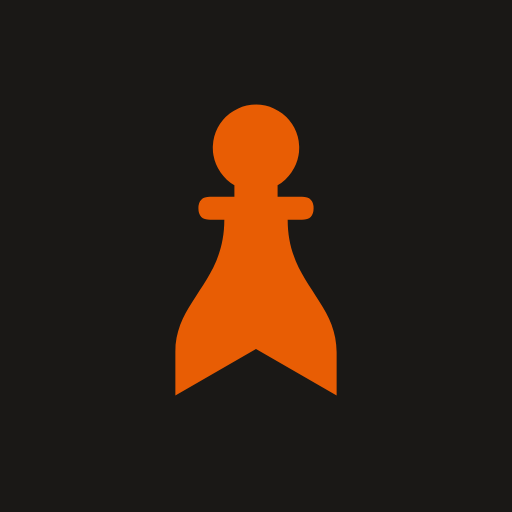
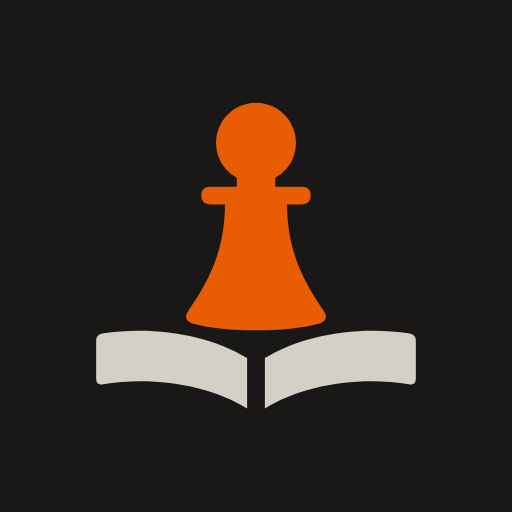
feat(brand): switch the mark to the pawn on an open book
The ribbon pawn read as a person, and a lone pawn sits too close to
chess.com's mark. This keeps the original pawn-on-a-book idea and
redraws it flat: a Staunton pawn seated in an open book, its base one
shallow arc that follows the page curve.

- two colours: brand-orange pawn, board-cream pages
- SVG favicon darkens the pages under a light colour scheme so they
  hold on a light tab; the ICO uses a mid-grey that works on both
- icons, og:image tile, TopBar mark, design-system masters, preview
  card, UI kit and README logo rules regenerated for the new mark

Claude-Session: https://claude.ai/code/session_017KoPbEBPVo7fvhDh6a5VRF

diff --git a/design-system/project/preview/brand-logo.html b/design-system/project/preview/brand-logo.html
@@ -1,7 +1,7 @@
 <!doctype html><html><head><meta charset="utf-8"><link rel="stylesheet" href="../colors_and_type.css"><style>
 body{padding:24px;background:var(--surface-base);display:flex;align-items:center;gap:24px;flex-wrap:wrap}
 .lockup{display:flex;align-items:center;gap:8px;padding:18px 22px;background:var(--surface-elevated);border:1px solid var(--border-subtle);border-radius:12px}
-.lockup img{height:22px}
+.lockup img{height:28px;margin:-2px 0}
 .name{font:600 16px/1 var(--font-family-primary);color:var(--color-text-primary);letter-spacing:-.01em}
 .panel{padding:14px;border-radius:12px;border:1px solid var(--border-subtle);background:var(--surface-raised)}
 .panel img{display:block;width:96px;height:96px}
@@ -10,9 +10,9 @@ body{padding:24px;background:var(--surface-base);display:flex;align-items:center
 .tile img{border-radius:22px}
 .cap{font-family:var(--font-family-mono);font-size:11px;color:var(--color-text-muted);margin-top:6px}
 </style></head><body>
-<div><div class="lockup"><img src="../assets/logo-favicon.svg" alt=""><span class="name">Opening Book</span></div><div class="cap">TopBar lockup</div></div>
+<div><div class="lockup"><img src="../assets/logo-mark.svg" alt=""><span class="name">Opening Book</span></div><div class="cap">TopBar lockup</div></div>
 <div><div class="panel"><img src="../assets/logo-mark.svg" alt=""></div><div class="cap">logo-mark</div></div>
 <div><div class="panel light"><img src="../assets/logo-mark-black.svg" alt=""></div><div class="cap">one colour</div></div>
 <div><div class="panel tile"><img src="../assets/logo-tile.svg" alt=""></div><div class="cap">logo-tile</div></div>
-<div><div class="panel sizes"><img src="../assets/logo-favicon.svg" style="width:32px;height:32px" alt=""><img src="../assets/logo-favicon.svg" style="width:16px;height:16px" alt=""></div><div class="cap">favicon 32 / 16</div></div>
+<div><div class="panel sizes" style="background:#dfe1e5"><img src="../assets/logo-favicon.svg" style="width:32px;height:32px" alt=""><img src="../assets/logo-favicon.svg" style="width:16px;height:16px" alt=""></div><div class="cap">favicon 32 / 16 — pages follow the OS colour scheme</div></div>
 </body></html>

diff --git a/packages/web/src/components/layout/TopBar.tsx b/packages/web/src/components/layout/TopBar.tsx
@@ -28,8 +28,17 @@ export default function TopBar() {
   return (
     <header className={styles.topBar}>
       <Link to="/" className={styles.logo}>
-        <svg className={styles.logoMark} viewBox="72 26 112 202" aria-hidden="true">
-          <path d="M 143 82 L 143 90 L 160 90 Q 168 90 168 98 Q 168 106 160 106 L 150 106 C 150 150 184 162 184 198 L 184 228 L 128 195.67 L 72 228 L 72 198 C 72 162 106 150 106 106 L 96 106 Q 88 106 88 98 Q 88 90 96 90 L 113 90 L 113 82 A 30 30 0 1 1 143 82 Z" />
+        <svg className={styles.logoMark} viewBox="20 12 216 216" aria-hidden="true">
+          <g transform="translate(0 -12)">
+            <path
+              className={styles.logoPawn}
+              d="M 141 84.16 A 27 27 0 1 0 115 84.16 L 115 90.16 L 97 90.16 Q 91 90.16 91 96.16 Q 91 102.16 97 102.16 L 107.00 102.16 C 107.00 134.56 94.85 155.62 82.21 174.09 Q 78.00 180.16 85.55 182.70 C 108.05 188.71 147.95 188.71 170.45 182.70 Q 178.00 180.16 173.79 174.09 C 161.15 155.62 149.00 134.56 149.00 102.16 L 159 102.16 Q 165 102.16 165 96.16 Q 165 90.16 159 90.16 L 141 90.16 Z"
+            />
+            <path
+              className={styles.logoPages}
+              d="M 122 206 C 96 190 58 184 24 189.40 Q 20 190.4 20 194 L 20 220 Q 20 224.4 24 223.80 C 58 218 96 224 122 240 Z M 134.00 206 C 160.00 190 198.00 184 232.00 189.40 Q 236.00 190.4 236.00 194 L 236.00 220 Q 236.00 224.4 232.00 223.80 C 198.00 218 160.00 224 134.00 240 Z"
+            />
+          </g>
         </svg>
         Opening Book
       </Link>

diff --git a/design-system/project/ui_kits/web/index.html b/design-system/project/ui_kits/web/index.html
@@ -8,7 +8,7 @@ body{margin:0;background:var(--surface-base);color:var(--color-text-primary);fon
 /* TopBar */
 .topbar{position:sticky;top:0;height:60px;background:#2c2a27;border-bottom:1px solid rgba(255,255,255,.06);display:grid;grid-template-columns:1fr auto 1fr;align-items:center;padding:0 24px;gap:16px;z-index:100}
 .logo{justify-self:start;color:#ece8e1;text-decoration:none;font-size:16px;font-weight:600;letter-spacing:-.01em;display:flex;align-items:center;gap:10px}
-.logo img{width:22px;height:22px}
+.logo img{width:28px;height:28px;margin:-2px 0}
 .nav{display:flex;justify-self:center;gap:0;height:100%;align-items:stretch}
 .nav a{display:flex;align-items:center;padding:0 16px;color:#9a958e;text-decoration:none;font-size:16px;font-weight:500;box-shadow:inset 0 -2px 0 transparent;cursor:pointer;transition:all .15s ease}
 .nav a:hover{color:#ece8e1}

diff --git a/packages/web/src/components/layout/TopBar.module.css b/packages/web/src/components/layout/TopBar.module.css
@@ -27,12 +27,20 @@
   border-radius: var(--radius-sm);
 }
 
-/* The ribbon pawn: the brand mark (design-system/project/assets/logo-mark.svg) */
+/* The brand mark (design-system/project/assets/logo-mark.svg) */
 .logoMark {
-  height: 22px;
+  height: 24px;
   width: auto;
-  fill: var(--color-brand-orange);
   flex-shrink: 0;
+}
+
+.logoPawn {
+  fill: var(--color-brand-orange);
+}
+
+/* Board cream — the light-square colour the boards use */
+.logoPages {
+  fill: var(--color-result-white);
 }
 
 .logo:focus-visible {

diff --git a/design-system/project/ui_kits/web/TopBar.jsx b/design-system/project/ui_kits/web/TopBar.jsx
@@ -9,7 +9,7 @@ function TopBar({ active, onNav, query, onQuery, onSurprise }) {
           onNav('explore');
         }}
       >
-        <img src="../../assets/logo-favicon.svg" alt="" />
+        <img src="../../assets/logo-mark.svg" alt="" />
         Opening Book
       </a>
       <nav className="nav">

diff --git a/design-system/project/README.md b/design-system/project/README.md
@@ -202,7 +202,7 @@ A defined elevation system — never hardcode `box-shadow`:
 - Landing-variant search input has a near-invisible orange wash:
   `linear-gradient(145deg, var(--accent-a6) 0%, transparent 100%)`.
 - No images, patterns, textures, or full-bleed photography. The single brand
-  image is the ribbon-pawn logo (`assets/logo-mark.svg`).
+  image is the pawn-on-a-book logo (`assets/logo-mark.svg`).
 
 ### Cards
 
@@ -264,22 +264,25 @@ that needs it.
 **Filled vs stroke:** stroke is the default; filled is reserved for state-on
 (e.g. `StarButton` filled = saved to repertoire, in brand orange).
 
-**Logo:** the ribbon pawn — a flat pawn whose base ends in the V-notched tail of
-a bookmark ribbon, so the book is implied rather than drawn. It is the system's
-"orange is a bookmark ribbon" rule made into a mark. One colour, one path, on a
-256 grid (notch at 30°). Masters in `assets/`:
+**Logo:** an orange Staunton pawn seated in an open book, the original
+pawn-on-a-book idea redrawn flat. The pawn's base is a shallow arc that follows
+the curve of the pages, so it sits in the book rather than floating above it.
+Two colours: brand-orange pawn, board-cream (`#d4cfc7`) pages. Two paths on a
+256 grid. Masters in `assets/`:
 
-- `logo-mark.svg` (brand orange), `logo-mark-black.svg`, `logo-mark-white.svg`
-- `logo-favicon.svg` — tight square crop for 16–48px
+- `logo-mark.svg` (colour), `logo-mark-black.svg`, `logo-mark-white.svg`
+- `logo-favicon.svg` — tight square crop; the pages switch to board-dark
+  `#665e54` under `prefers-color-scheme: light` so they hold on a light tab
 - `logo-tile.svg` — mark on `--surface-base`, for app icons and the social image
 
-In production: `favicon.ico` (16/32/48) and `public/brand/` (SVG favicon,
-apple-touch-icon, 192/512 icons, webmanifest; `icon-512.png` is `og:image`). The
-TopBar draws the mark inline at 22px high, 8px from the wordmark. Minimum size
-16px high. Only ever orange, black or white — never cream, never on orange. The
-concepts it was chosen from are in `explorations/logo-refresh/`.
-`opening-book-icon.png` is the retired illustration, kept only so old cached
-social previews still resolve.
+In production: `favicon.ico` (16/32/48, mid-grey pages because an ICO cannot
+adapt) and `public/brand/` (SVG favicon, apple-touch-icon, 192/512 icons,
+webmanifest; `icon-512.png` is `og:image`). The TopBar draws the mark inline at
+24px high, 8px from the wordmark. Minimum size 16px. In one colour both parts
+take the same colour and the gap separates them. The pawn is only ever orange,
+black or white. The explorations it was chosen from are in
+`explorations/logo-refresh/`. `opening-book-icon.png` is the retired
+illustration, kept only so old cached social previews still resolve.
 
 **Emoji / unicode glyphs:** none. Use SVG or text. The one allowed glyph is `★`
 inside the `StarButton`, but even that is rendered via SVG in the source.

diff --git a/design-system/project/explorations/logo-refresh/README.md b/design-system/project/explorations/logo-refresh/README.md
@@ -7,9 +7,10 @@ for the book. They sit on a 256 × 256 canvas as flat SVG paths, with no text,
 rasters, gradients or filters. `concepts.png` compares them with the current
 mark at 200/64/32/16px, in a browser tab and in the TopBar.
 
-- **A: Ribbon pawn** (recommended). The pawn's base is a bookmark tail with a
-  V-notch, taken from the system rule that "orange is a bookmark ribbon". One
-  colour, one shape.
+- **A: Ribbon pawn** (rejected — reads as a person, and a lone pawn is
+  chess.com's mark). The pawn's base is a bookmark tail with a V-notch, taken
+  from the system rule that "orange is a bookmark ribbon". One colour, one
+  shape.
 - **B: Pawn on the page.** Today's idea redrawn flat: the closest evolution of
   the current mark.
 - **C: Pawn in the book.** An open book with the pawn set into it. The best app

diff --git a/.claude/skills/openingbook-design/SKILL.md b/.claude/skills/openingbook-design/SKILL.md
@@ -28,8 +28,8 @@ inventing a layout.
   live landing app (TopBar, Hero, OpeningCard, RepertoireRow, MiniBoard).
 - `design-system/project/preview/*.html` — reference cards for every token
   group.
-- `design-system/project/assets/logo-mark.svg` — the ribbon-pawn mark (a pawn
-  whose base is a bookmark tail); variants beside it, rules in the README.
+- `design-system/project/assets/logo-mark.svg` — the pawn-on-a-book mark (orange
+  pawn seated in an open book); variants beside it, rules in the README.
 - `design-system/chats/` — transcripts from the Claude Design sessions that
   produced the system. Useful when you need to know _why_ something is the way
   it is; not required reading for routine work.

diff --git a/design-system/project/explorations/logo-refresh/round-2/README.md b/design-system/project/explorations/logo-refresh/round-2/README.md
@@ -14,3 +14,8 @@ positions, where orange is the bookmark ribbon.
   `f-board-book-small` (one light page, one dark page) is its 16–24px cut.
 
 `concepts.png` compares both with the current mark.
+
+**Chosen: B.** Before shipping, its base was reseated. It is now one shallow arc
+that follows the page curve with rounded corners, which fixed the floating gap
+and the sharp corner slivers that showed at large sizes. The shipped files are
+in `assets/`, not here.
